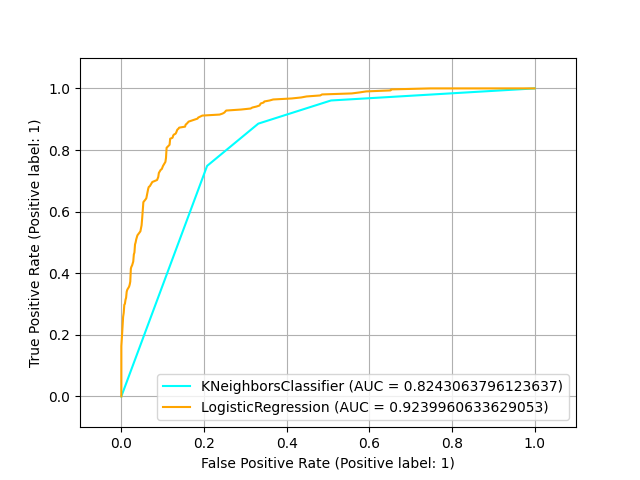
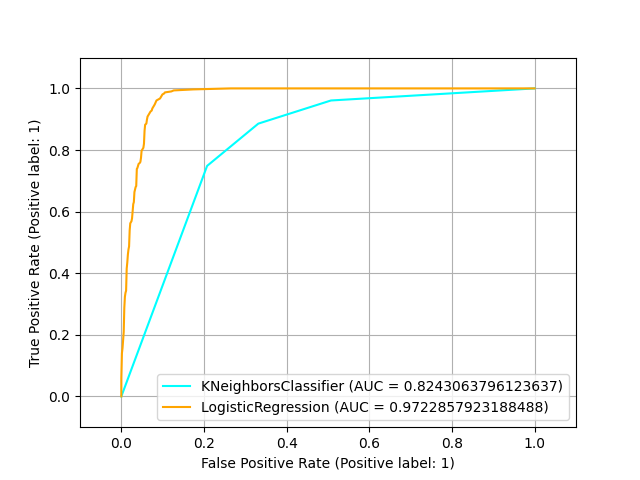
Changes with normalization of data

diff --git a/logistic.py b/logistic.py
@@ -1,5 +1,11 @@
 import numpy as np
 
+def find_mean(x):
+    return np.mean(x, axis=0).reshape((1, x.shape[1]))
+
+def find_std(x):
+    return np.std(x, axis=0).reshape((1, x.shape[1]))
+
 class LogisticRegression:
     def __init__(self, data):
         self.instances = data
@@ -8,6 +14,17 @@ class LogisticRegression:
         self.train_x = np.array([[1] + i[:-1] for i in self.instances], dtype=np.float64)
         self.train_y = np.array([i[-1] for i in self.instances], dtype=np.float64)
         self.train_y = self.train_y.reshape((self.m, 1))
+
+        self.mu = find_mean(self.train_x)
+        self.sigma = find_std(self.train_x)
+        self.sigma[self.sigma == 0] = 1
+        self.train_x = (self.train_x - np.repeat(self.mu, repeats=self.m, axis=0)) / self.sigma
+        #for _ in range(self.d):
+        #    self.train_x[:, _] = self.train_x[:, _] / self.sigma[_]
+        
+        #self.mu = self.mu.reshape((self.d, 1))
+        #self.sigma = self.sigma.reshape((self.d, 1))
+
         self.train()
     
     def train(self, alpha = 0.01, max_iter = 1000):
@@ -24,6 +41,7 @@ class LogisticRegression:
 
     def evaluate(self, x, prob = False, both = False):
         x = np.array(x, dtype=np.float64)
+        x = (x - self.mu) / self.sigma
         
         y_pred = self.sigmoid(np.dot(x, self.theta))
         y_maj = 1 if y_pred >= 0.5 else 0

diff --git a/kNN.py b/kNN.py
@@ -1,5 +1,11 @@
 import numpy as np
 
+def find_mean(x):
+    return np.mean(x, axis=0).reshape((1, x.shape[1]))
+
+def find_std(x):
+    return np.std(x, axis=0).reshape((1, x.shape[1]))
+
 class kNN:
     def __init__(self, k, data):
         self.k = k
@@ -7,9 +13,20 @@ class kNN:
         self.m = len(data)
         self.d = len(data[0]) - 1
         self.instances = np.array(self.instances, dtype=np.float64)
+        self.train_x = self.instances[:, :-1]
+        self.train_y = self.instances[:, -1]
+        # self.mu = find_mean(self.train_x)
+        # self.sigma = find_std(self.train_x)
+        # self.sigma[self.sigma == 0] = 1
+        # self.train_x = (self.train_x - np.repeat(self.mu, repeats=self.m, axis=0)) / self.sigma
+        
+        # self.mu = self.mu.reshape((self.d, 1))
+        # self.sigma = self.sigma.reshape((self.d, 1))
+        # self.instances = np.column_stack((self.train_x, self.train_y))
     
     def evaluate(self, x, prob = False, both = False):
         x = np.array(x, dtype=np.float64).reshape((self.d, 1))
+        #x = (x - self.mu) / self.sigma
         dists = self.get_distances(x)
         arr = np.column_stack((self.instances, dists))
         arr = arr[arr[:,-1].argsort(kind='mergesort')] # Need a stable sorting algorithm for consistent results

diff --git a/task_4.py b/task_4.py
@@ -1,7 +1,7 @@
 import data_import
 import kNN
 
-# This also takes roughly 45 mins to complete.
+# This also takes roughly 20 mins to complete.
 
 # Results
 # k = 1 : 0.825, 0.853, 0.862, 0.851, 0.775 - 0.8332
@@ -9,6 +9,13 @@ import kNN
 # k = 5 : 0.838, 0.85, 0.873, 0.869, 0.779 - 0.8418
 # k = 7 : 0.838, 0.862, 0.875, 0.874, 0.778 - 0.8454
 # k = 10 : 0.862, 0.87, 0.876, 0.887, 0.781 - 0.8552
+
+# Results after normalization - We might be skewing data and changing distances. This is wrong
+# k = 1 : 0.832, 0.878, 0.883, 0.87, 0.821 - 0.8568
+# k = 3 : 0.805, 0.845, 0.869, 0.836, 0.814 - 0.8338
+# k = 5 : 0.766, 0.84, 0.846, 0.818, 0.799 - 0.8138
+# k = 7 : 0.748, 0.801, 0.822, 0.812, 0.772 - 0.791
+# k = 10 : 0.733, 0.777, 0.798, 0.797, 0.756 - 0.7722
 
 if __name__ == '__main__':
     data = data_import.read_file_from_name('emails.csv', ',')

diff --git a/task_3.py b/task_3.py
@@ -1,12 +1,19 @@
 import data_import
 import logistic
 
-# Results
+# Results - Before Normalization
 # 0.914 0.88417 0.80351
 # 0.897 0.83206 0.787
 # 0.883 0.89573 0.66549
 # 0.82 0.92537 0.42177
 # 0.851 0.79182 0.69608
+
+# Results - After Normalization - This is a lot better
+# 0.94 0.90036 0.88772
+# 0.968 0.92683 0.96029
+# 0.937 0.94378 0.82746
+# 0.949 0.92042 0.90476
+# 0.927 0.85196 0.92157
 
 if __name__ == '__main__':
     data = data_import.read_file_from_name('emails.csv', ',')
